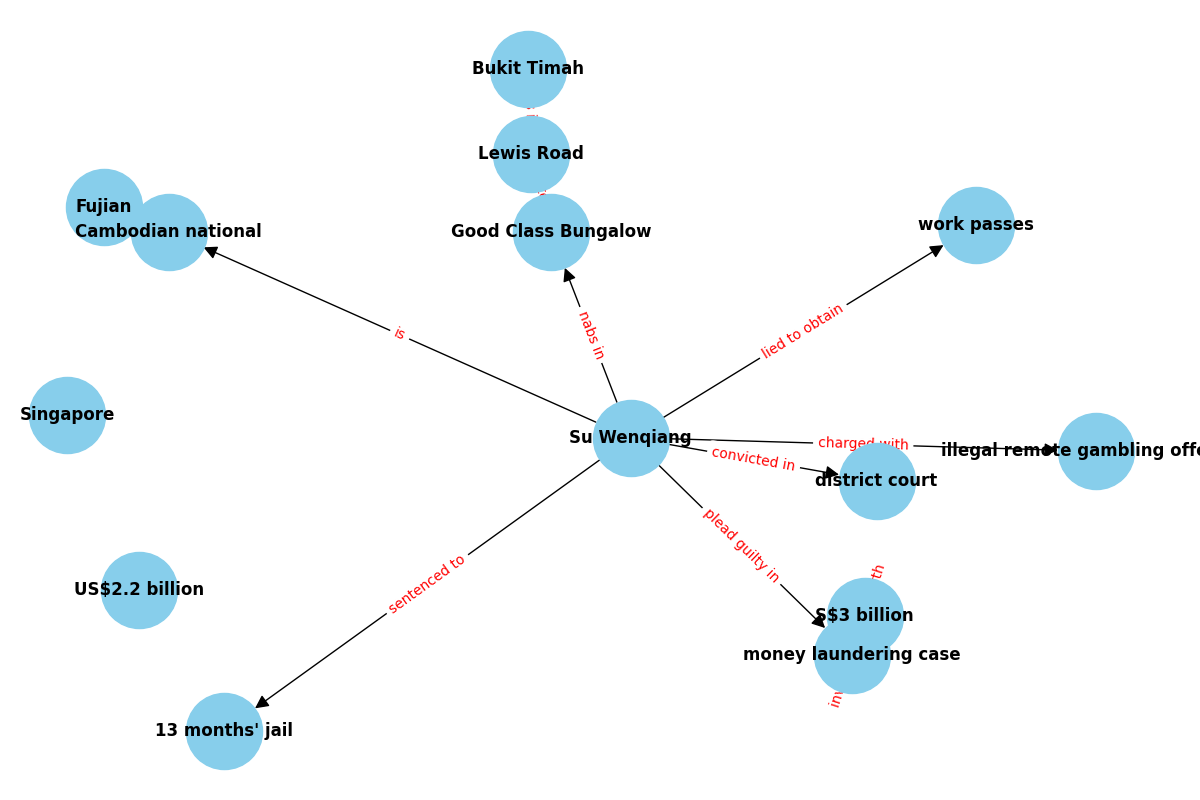
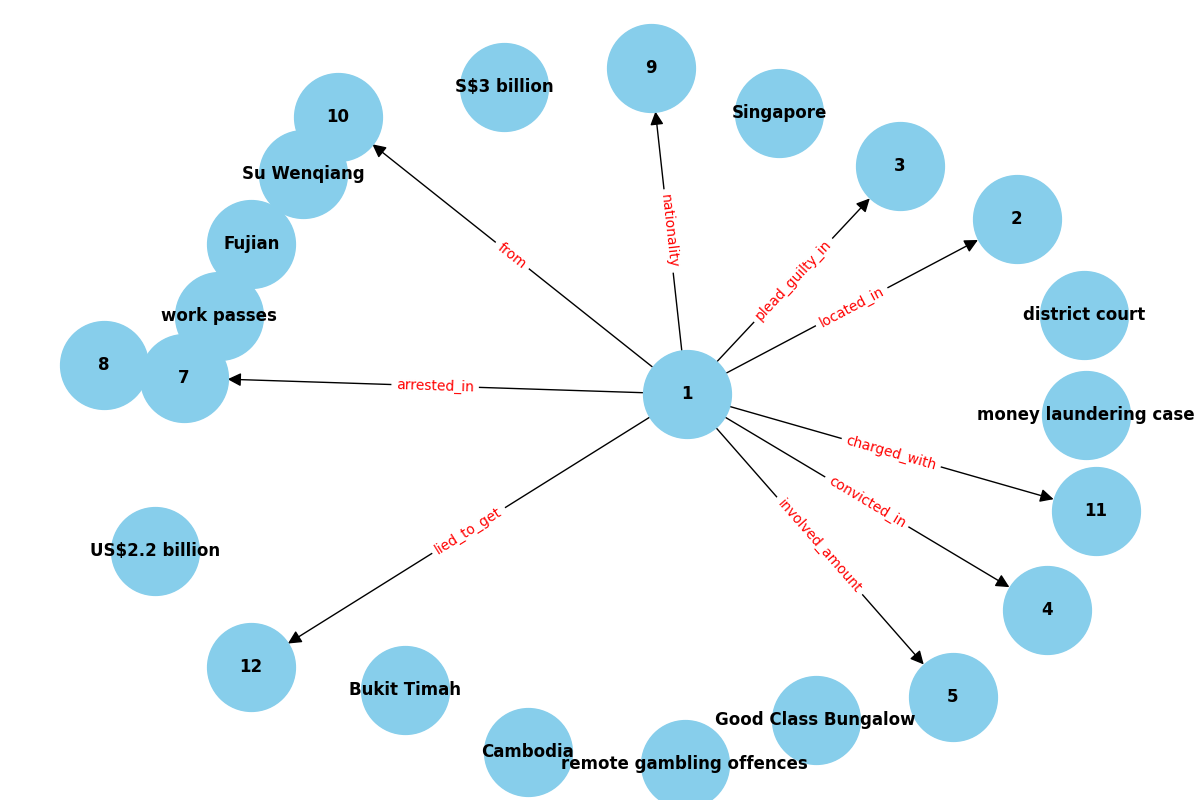
ER Diagram introduced

diff --git a/backend/main.py b/backend/main.py
@@ -4,15 +4,16 @@ import matplotlib.pyplot as plt
 import json
 from graphviz import Digraph
 from env import OPEN_AI_API_KEY
+from plantuml import PlantUML
 
 client = OpenAI(
   api_key= OPEN_AI_API_KEY
 )
 
-def chat_with_gpt(PROMPT, MaxToken=5000, outputs=2, temperature = 1):
+def chat_with_gpt(PROMPT, MaxToken=5000, outputs=2, temperature = 0.7):
     response = client.chat.completions.create(
         model="gpt-4o-mini",
-        store=True,
+        store=False,
         temperature=temperature,
         messages=[{"role": "user", "content": f"Extract entities and relationships from the following text. "
                 f"For relationships, standardise the use of 'source', 'target', relation'"
@@ -20,7 +21,50 @@ def chat_with_gpt(PROMPT, MaxToken=5000, outputs=2, temperature = 1):
     )
     return response.choices[0].message.content
 
+def chat_for_ERD(input_text, MaxToken=5000, outputs=2, temperature = 0.7):
+    prompt = f"""
+   Extract entities and relationships from the following text and represent them as an Entity-Relationship (ER) diagram using **PlantUML syntax**. 
 
+    Brief Guidelines:
+    - Identify entities and their attributes within `{{}}`.
+    - Identify relationships between entities using connectors like:
+        - `->` for basic relationships (e.g., "is related to", "belongs to", etc.).
+        - `o->`, `<->`, or `o\\--` for more descriptive relationships with cardinality.
+    - Avoid including unnecessary or generic entities
+    - Ensure all unique entities and valid relationships are represented.
+    - Follow correct PlantUML syntax
+    - The diagram must be enclosed with `@startuml` and `@enduml` tags.
+
+    Please respond with valid **PlantUML code only**, without additional explanations or text.
+    
+    user_input: {input_text}
+    """
+    response = client.chat.completions.create(
+        model="gpt-4o-mini",
+        store=False,
+        temperature=temperature,
+        messages=[{"role": "user", "content": prompt}]
+    )
+    
+    initial_response = response.choices[0].message.content
+    cleaned_response = initial_response.strip("```plantuml").strip("```")
+    return cleaned_response
+
+def generate_plant_uml_image(plantuml_code, output_file = "diagram.png"):
+    """
+    Generate an image from PlantUML code and save it to a file.
+    """
+    # Save the PlantUML code to a temporary file
+    temp_file = "temp.puml"
+    with open(temp_file, "w") as f:
+        f.write(plantuml_code)
+
+    # Initialize the PlantUML server
+    plantuml = PlantUML(url="http://www.plantuml.com/plantuml/png/")
+    
+    # Generate the image
+    plantuml.processes_file(temp_file, output_file)
+    print(f"Diagram saved as {output_file}")
 
 def parse_gpt_response(response):
     """Parses GPT response to extract entities and relationships."""
@@ -80,17 +124,21 @@ if __name__ == "__main__":
             break
         
         response = chat_with_gpt(user_input)
+        response_ERD = chat_for_ERD(user_input)
         print("chatbot: " + response)
+        print("ERD ChatBot: " + response_ERD)
     
     # Parse response
         try:
             entities, relationships = parse_gpt_response(response)
-            print(entities)
-            print(relationships)
+            #print(entities)
+            #print(relationships)
             
             # Generate visualizations
             generate_network_graph(entities, relationships)
             generate_er_diagram(entities, relationships)
+            generate_plant_uml_image(response_ERD)
+            
 
             print("Network graph and ER diagram generated successfully!")
         except Exception as e:
